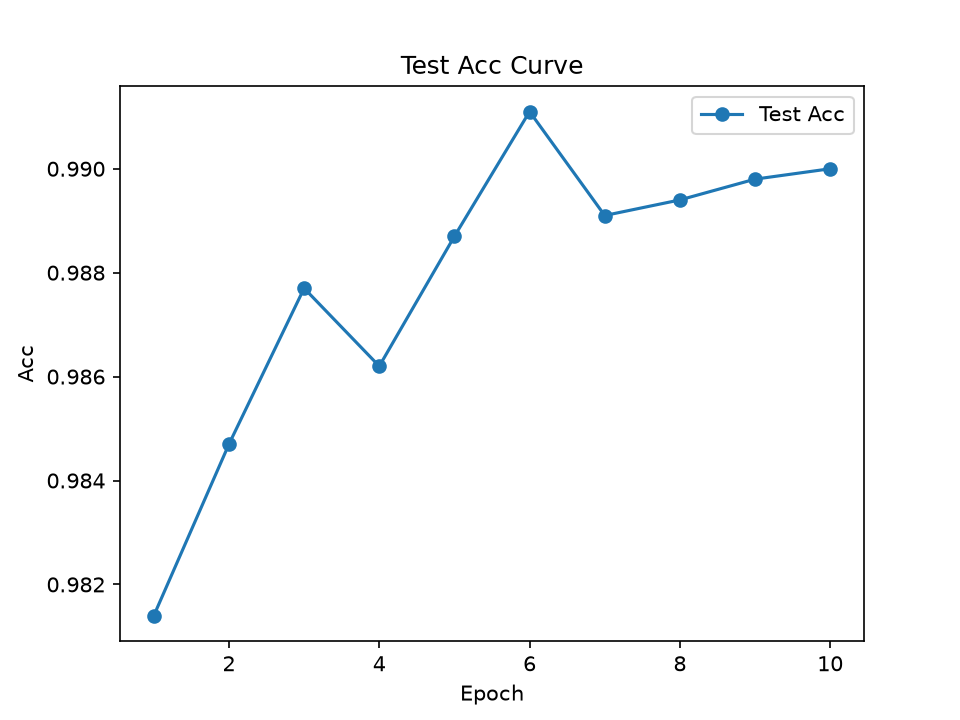
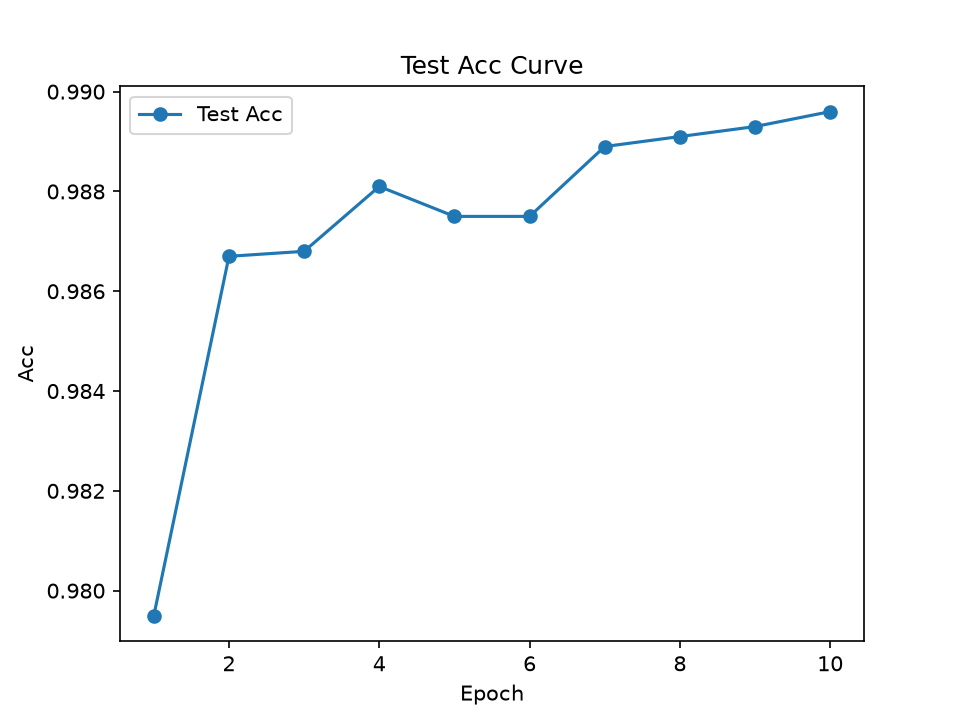
feat: add pathlib demo and fix data path with Path(__file__)

diff --git a/04_training_framework/utils/plot.py b/04_training_framework/utils/plot.py
@@ -1,8 +1,13 @@
 import matplotlib.pyplot as plt
-import os
+from pathlib import Path
+
+PLOT_DIR = Path(__file__).resolve().parents[1] / "plots"
 
 def plot_img(epoch_num, epoch_loss, epoch_acc):
-    os.makedirs("plots", exist_ok=True)
+    PLOT_DIR.mkdir(parents=True, exist_ok=True)
+
+    loss_path = PLOT_DIR / "loss_curve_cnn.png"
+    acc_path = PLOT_DIR / "accuracy_curve_cnn.png"
 
     plt.figure()
     plt.plot(epoch_num, epoch_loss, label="Train Loss", marker="o")
@@ -10,7 +15,7 @@ def plot_img(epoch_num, epoch_loss, epoch_acc):
     plt.ylabel("Loss")
     plt.title("Training Loss Curve")
     plt.legend()
-    plt.savefig("plots/loss_curve_cnn.png", dpi=150)
+    plt.savefig(loss_path, dpi=150)
 
     plt.figure()
     plt.plot(epoch_num, epoch_acc, label="Test Acc", marker="o")
@@ -18,4 +23,4 @@ def plot_img(epoch_num, epoch_loss, epoch_acc):
     plt.ylabel("Acc")
     plt.title("Test Acc Curve")
     plt.legend()
-    plt.savefig("plots/accuracy_curve_cnn.png", dpi=150)
+    plt.savefig(acc_path, dpi=150)

diff --git a/04_training_framework/datasets/mnist.py b/04_training_framework/datasets/mnist.py
@@ -1,12 +1,17 @@
 from torch.utils.data import DataLoader
 import torchvision
+from pathlib import Path
 
+BASE_DIR = Path(__file__).resolve().parent
+FRAMEWORK_DIR = BASE_DIR.parent
+REPO_DIR = FRAMEWORK_DIR.parent
+DATA_DIR = REPO_DIR / "data"
 
-train_dataset = torchvision.datasets.MNIST('../../data',
+train_dataset = torchvision.datasets.MNIST(root=DATA_DIR,
                                            train=True,
                                            transform=torchvision.transforms.ToTensor(),
                                            download=True)
-test_dataset  = torchvision.datasets.MNIST('../../data',
+test_dataset  = torchvision.datasets.MNIST(root=DATA_DIR,
                                            train=False,
                                            transform=torchvision.transforms.ToTensor(),
                                            download=True)

diff --git a/04_training_framework/utils/checkpoint.py b/04_training_framework/utils/checkpoint.py
@@ -1,10 +1,16 @@
 import torch
-import os
+from pathlib import Path
+
+CHECKPOINT_PATH = (
+        Path(__file__).resolve().parents[1]
+        / "checkpoints"
+        / "mnist_cnn.pth")
+
 
 def save_model(model):
-    os.makedirs("checkpoints", exist_ok=True)  # Create a folder to save my model.
-    torch.save(model.state_dict(),"checkpoints/mnist_cnn.pth")            #保存模型
+    CHECKPOINT_PATH.parent.mkdir(parents=True, exist_ok=True)
+    torch.save(model.state_dict(),CHECKPOINT_PATH)            #保存模型
 
-def load_model(model, path="checkpoints/mnist_cnn.pth"):
-    model.load_state_dict(torch.load(path, map_location="cpu"))
+def load_model(model, path=CHECKPOINT_PATH, device="cpu"):
+    model.load_state_dict(torch.load(path, map_location=device))
     return model
